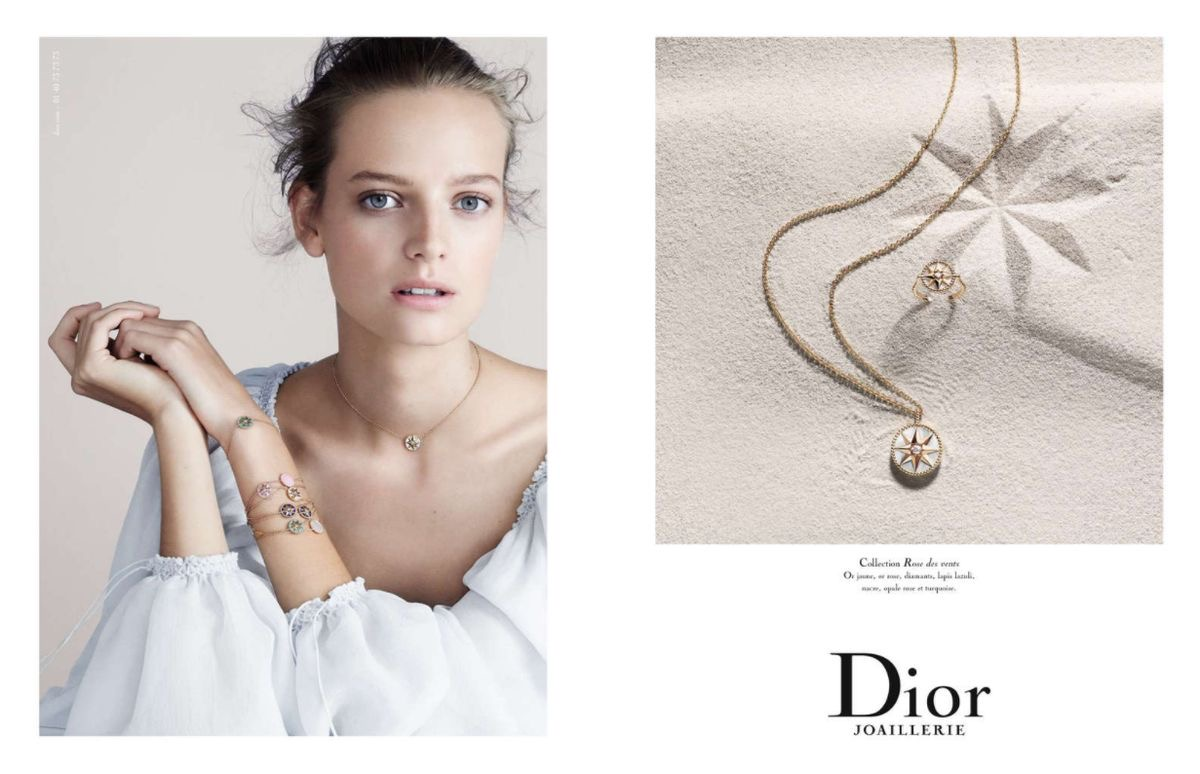
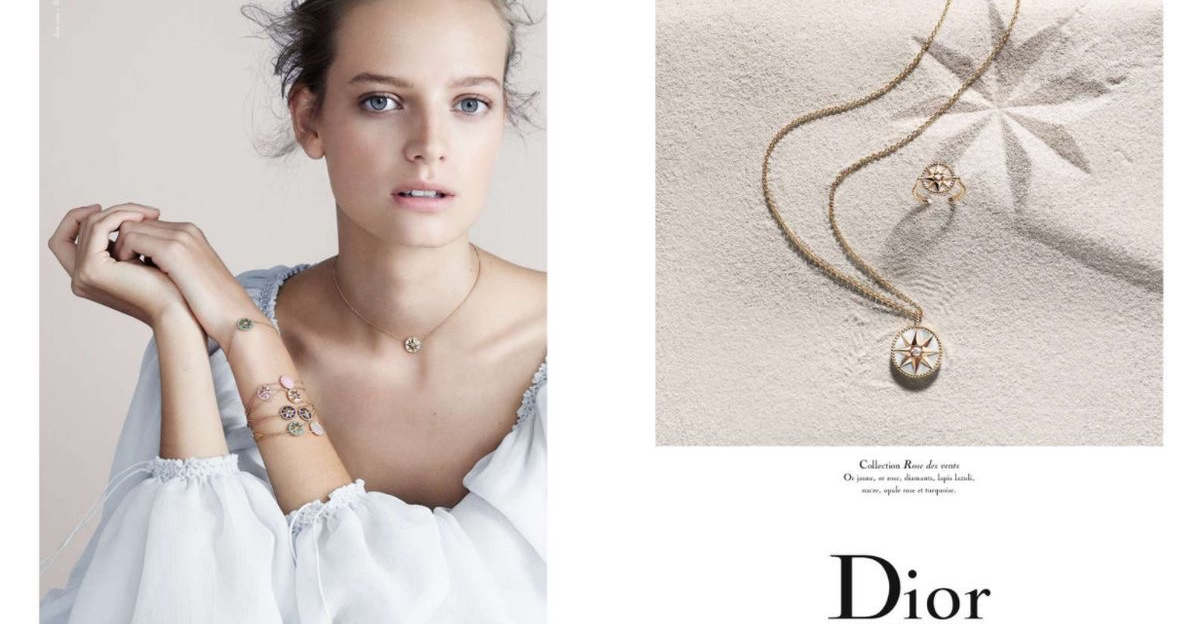
fix:fixed hero baner swiper

diff --git a/src/components/Home/HeroBaner/HeroBaner.tsx b/src/components/Home/HeroBaner/HeroBaner.tsx
@@ -8,7 +8,6 @@ import 'swiper/css/navigation';
 import './HeroBaner.css';
 import { Pagination, Navigation } from 'swiper/modules';
 import Image from 'next/image';
-import Link from 'next/link';
 
 interface SwiperProps {
   images: {
@@ -25,6 +24,7 @@ export default function BrandSwiper({
 }: SwiperProps) {
   return (
     <Swiper
+      style={{ height: '33rem' }}
       slidesPerView={1}
       spaceBetween={30}
       loop={true}
@@ -38,20 +38,20 @@ export default function BrandSwiper({
       {images.map((image, index) => (
         <SwiperSlide key={index}>
           {image.link ? (
-            <Link href={image.link}>
+            <div className="w-full h-[38rem] relative">
               <Image
                 src={image.src}
                 alt={image.alt}
-                quality={100}
-                className="w-full h-auto object-cover"
+                fill
+                className="object-cover rounded-lg"
               />
-            </Link>
+            </div>
           ) : (
             <Image
               src={image.src}
               alt={image.alt}
               quality={100}
-              className="w-full h-auto object-cover"
+              className="object-cover"
             />
           )}
         </SwiperSlide>

diff --git a/src/components/Home/HeroBaner/HeroBaner.css b/src/components/Home/HeroBaner/HeroBaner.css
@@ -19,7 +19,7 @@ body {
 .swiper {
   width: 80%;
   max-width: 1000px;
-  height: 38rem;
+  height: 80vh;
   border-radius: 10px;
   overflow: hidden;
   margin: 0 auto;
@@ -27,25 +27,27 @@ body {
 }
 
 .swiper-slide {
-  text-align: center;
   font-size: 18px;
   background: #fff;
   display: flex;
-  justify-content: center;
-  align-items: center;
   box-shadow: 0 4px 12px rgba(0, 0, 0, 0.1);
   border-radius: 8px;
   transition: transform 0.3s ease, box-shadow 0.3s ease;
+  height: 80rem;
+  object-fit: cover;
+}
+
+.swiper-slide > div {
+  height: 100%;
 }
 
 .swiper-slide img {
-  display: block;
   width: 100%;
-  height: 100%;
-  padding: 3.5rem;
-  object-fit: cover;
+  margin: auto;
+  padding: 0;
   border-radius: 8px;
 }
+
 
 .swiper-button-next {
   color: black;

diff --git a/src/components/Home/Home.tsx b/src/components/Home/Home.tsx
@@ -75,19 +75,19 @@ export default function Home() {
       id: 1,
       title: homelocalization.bracelet,
       image: wishper,
-      link: 'https://parasteh.com/blog/size-of-ring-necklace-bracelet/',
+      link: 'http://localhost:3000/products/67ff4ddaeada4d94453a7a66',
     },
     {
       id: 2,
       title: homelocalization.necklace,
       image: necklace,
-      link: 'https://parasteh.com/blog/jewelry-according-face-shape/',
+      link: 'http://localhost:3000/products/67ffef94eada4d94453a7b3b',
     },
     {
       id: 3,
       title: homelocalization.ring,
       image: coco,
-      link: 'https://parasteh.com/blog/what-skin-tone-goes-with-gold/',
+      link: 'http://localhost:3000/products/67fea70425dce380f3dc193f',
     },
   ];
 
